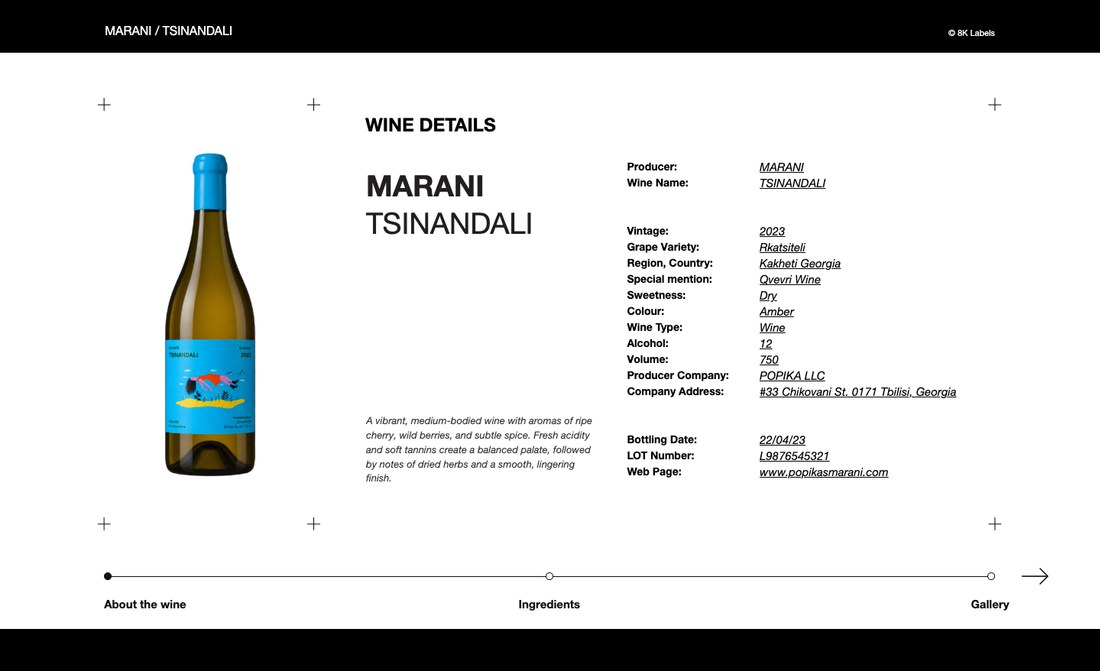
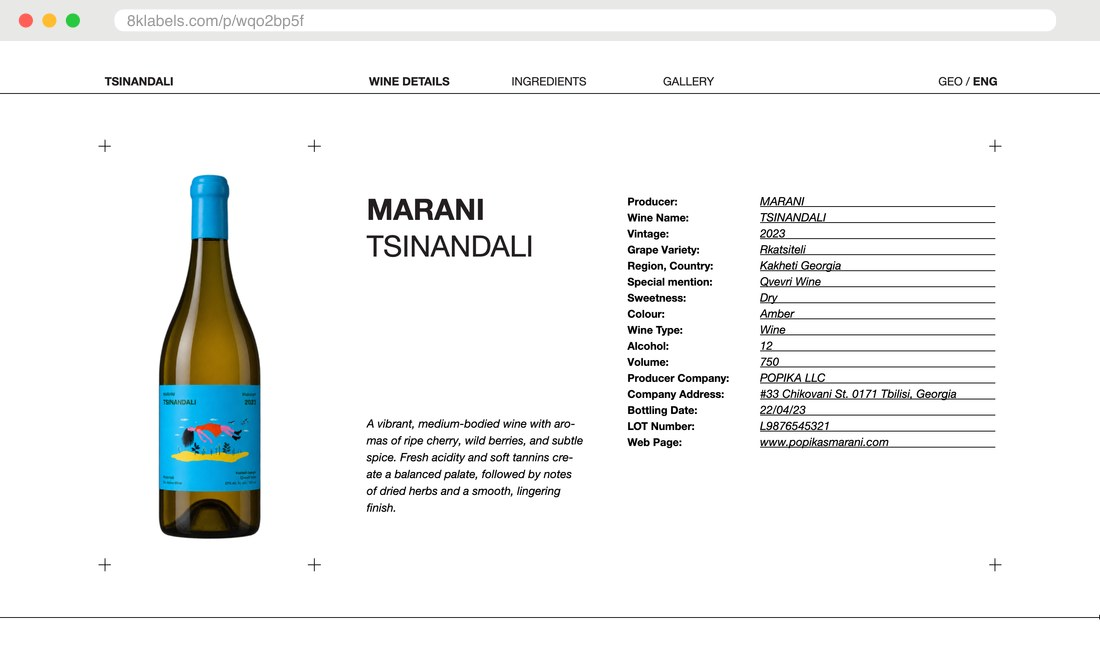
Black 8K.WINE, home tutorial link set like the tagline, home red button on the margin, tutorial shows the new product page and stops on START (→ front label details), spot drawings lose stray marks near the edges

diff --git a/src/app/page.tsx b/src/app/page.tsx
@@ -155,7 +155,9 @@ const VEIL_TOP = HEADER_H + 1.5, VEIL_BOT = FOOT_RULE_Y - 1.5;
 const CARD_BASE = 823.61, CARD_BODY = [18.4, 32.8], CARD_FS = 15, CARD_BODY_FS = 12;
 const NEXT_R = 18.09;          /* red round button — round 109: smaller again (was 27) */
 const NEXT_X = 1302.86;        /* its centre on working pages … */
-const WELCOME_X = 168.1;       /* … and on the welcome page */
+/* … and on the welcome page — 2026-09-28 (owner): its left edge ON the
+   page's left margin (137.14), like the artists' pages' back button */
+const WELCOME_X = 137.14 + 18.09;
 const BACK_X = 155.23;         /* round 112 #4: artists' pages — a BACK button at the rule's left end */
 const STEPS: { x: number; label: string; page: PageKey; big: boolean }[] = [
   { x: 303.38, label: "Front Label Details", page: "vision", big: false },
@@ -1531,8 +1533,9 @@ const sleep = (ms: number) => new Promise((r) => setTimeout(r, ms));
   }, [tut, tutIdle]);
 
   const endTutorial = useCallback(() => {
-    if (tutAuto.current) { tutAuto.current = false; stopTutorial(); go("welcome", -1); restoreRef.current(false); return; }
     stopTutorial();
+    /* the visitor's own order comes back (the story borrowed the page) */
+    restoreRef.current(false);
     /* round 72 #2: straight into the real Your Vision page, not the home
        page — they have just watched the whole story, so they start work */
     go("vision");
@@ -1795,8 +1798,11 @@ const sleep = (ms: number) => new Promise((r) => setTimeout(r, ms));
          (its onClick turns the page of the story). */
       if (!live()) return;
       /* the self-playing story presses the red button itself */
+      /* …until the closing card: there the red button is START and waits
+         for the visitor, who then begins on the front label details */
+      if (tutAuto.current && tut >= TUT_CARDS.length - 1) tutAuto.current = false;
       if (tutAuto.current) {
-        if (!(await hold(tut >= TUT_CARDS.length - 1 ? 2600 : 900))) return;
+        if (!(await hold(900))) return;
         const bx = tut < STEPS.length ? STEPS[tut].x : NEXT_X;
         if (!(await tap([bx, PROG_Y], 260, 640))) return;
         (document.querySelector("[data-tut-ok][aria-label='next'], [data-tut-ok][aria-label='start']") as HTMLButtonElement | null)?.click();
@@ -2538,9 +2544,10 @@ const sleep = (ms: number) => new Promise((r) => setTimeout(r, ms));
           </span>
         ) : null}
         {/* 2026-09-28 (owner): on the left, level with the tagline's first
-            line — a red underlined link that plays the tutorial by itself */}
+            line — set like the tagline (italic, black), underlined as a link;
+            it plays the tutorial by itself */}
         <button onClick={() => startTutorial(true)}
-          style={{ ...px(137.14, baseTop(625.4, 16.2), 420, 20), ...ghost, pointerEvents: "auto", textAlign: "left", textTransform: "none", font: `16.2px/16.2px ${HNW}`, color: BAR_RED, textDecoration: "underline", textUnderlineOffset: 3, whiteSpace: "nowrap", cursor: "pointer" }}>
+          style={{ ...px(137.14, baseTop(625.4, 16.2), 420, 20), ...ghost, pointerEvents: "auto", textAlign: "left", textTransform: "none", font: `italic 16.2px/16.2px ${HNW}`, color: "#000", textDecoration: "underline", textUnderlineOffset: 3, whiteSpace: "nowrap", cursor: "pointer" }}>
           {t("See how this pack was created")}</button>
         {lang === "ge" ? null : ["Create print and market-ready labels,", "marketing assets, and a product page", "in ~10 minutes."].map((ln, i) => (
           <span key={"hs" + i} style={{ ...px(1038.5, baseTop(625.4 + i * 19.44, 16.2), 320, 20), font: `italic 16.2px ${HNW}`, lineHeight: "16.2px", color: "#000", whiteSpace: "nowrap" }}>{t(ln)}</span>
@@ -4216,7 +4223,7 @@ const sleep = (ms: number) => new Promise((r) => setTimeout(r, ms));
                  came out short and left the right side tighter than the left) */
               return (
                 <button onClick={() => { if (tutRef.current >= 0) stopTutorial(); go("welcome", -1); }}
-                  style={{ position: "absolute", left: 137.14, top: TOPS - PAD, height: HEADER_H - (TOPS - PAD), ...ghost, padding: `0 ${PAD}px`, background: BAR_RED, display: "flex", alignItems: "flex-start", textTransform: "none" }}>
+                  style={{ position: "absolute", left: 137.14, top: TOPS - PAD, height: HEADER_H - (TOPS - PAD), ...ghost, padding: `0 ${PAD}px`, background: "#111", display: "flex", alignItems: "flex-start", textTransform: "none" }}>
                   <span style={{ display: "block", position: "relative", top: baseTop(BASE, 13) - (TOPS - PAD), font: `700 13px ${HNW}`, lineHeight: "13px", color: "#fff", whiteSpace: "nowrap" }}>8K.WINE ©</span>
                 </button>
               );

diff --git a/src/lib/typeset/palette.ts b/src/lib/typeset/palette.ts
@@ -271,6 +271,73 @@ export async function cleanPaper(dataUrl: string, to?: string, sideIn?: Side | S
     if (y < H - 1) push(x, y + 1);
   }
 
+  /* STRAY MARKS (owner, 2026-09-28: "small ink images often have
+     artefacts close to the edges — make sure the edges are clean"). The
+     paper is grown in from the sheet's edge, so a speck, a hairline or a
+     smudge that stands alone on the paper is ringed by paper and survives
+     it. On a spot drawing (no `sides`) the ink is split into islands and
+     the drawing is where its sizeable islands are (each ≥ 2 % of all the
+     ink). What counts as paper is written at `stray` below; dots, stars,
+     birds and loose strokes that belong to the drawing stay. */
+  if (!sides && process.env.CLEAN_NO_STRAY !== "1") {   /* (the env switch is for side-by-side tests only) */
+    const lab = new Int32Array(W * H).fill(-1);
+    const comps: { n: number; x0: number; y0: number; x1: number; y1: number }[] = [];
+    let total = 0;
+    const stack = new Int32Array(W * H);
+    for (let p0 = 0; p0 < W * H; p0++) {
+      if (paper[p0] || lab[p0] >= 0) continue;
+      const id = comps.length, c = { n: 0, x0: W, y0: H, x1: -1, y1: -1 };
+      let sp = 0; stack[sp++] = p0; lab[p0] = id;
+      while (sp) {
+        const q = stack[--sp], x = q % W, y = (q / W) | 0;
+        c.n++; if (x < c.x0) c.x0 = x; if (x > c.x1) c.x1 = x; if (y < c.y0) c.y0 = y; if (y > c.y1) c.y1 = y;
+        for (let dy = -1; dy <= 1; dy++) for (let dx = -1; dx <= 1; dx++) {
+          const nx = x + dx, ny = y + dy;
+          if (nx < 0 || ny < 0 || nx >= W || ny >= H) continue;
+          const r2 = ny * W + nx;
+          if (!paper[r2] && lab[r2] < 0) { lab[r2] = id; stack[sp++] = r2; }
+        }
+      }
+      comps.push(c); total += c.n;
+    }
+    const bigId = new Uint8Array(comps.length);
+    comps.forEach((c, i) => { if (c.n >= total * 0.02) bigId[i] = 1; });
+    if (bigId.some((v) => v)) {
+      const g = Math.round(Math.min(W, H) * 0.04), edge = Math.round(Math.min(W, H) * 0.02);
+      /* the drawing's outer rectangle (its sizeable islands), grown by g */
+      let ax0 = W, ay0 = H, ax1 = -1, ay1 = -1;
+      comps.forEach((c, i) => { if (bigId[i]) { ax0 = Math.min(ax0, c.x0); ay0 = Math.min(ay0, c.y0); ax1 = Math.max(ax1, c.x1); ay1 = Math.max(ay1, c.y1); } });
+      ax0 -= g; ay0 -= g; ax1 += g; ay1 += g;
+      /* gentle on purpose (owner's pictures, 2026-09-28): a loose cloud
+         stroke of Giorgi's or a pale wisp of Mariam's sky is drawing, not
+         dirt — so only (a) a small island (< 0.6 % of the ink) outside the
+         rectangle, (b) one under 3 % hugging the sheet's border. (A rule
+         for tiny islands far from any ink took bits of his clouds — out.) */
+      const stray = comps.map((c) => {
+        const outside = c.x1 < ax0 || c.x0 > ax1 || c.y1 < ay0 || c.y0 > ay1;
+        const hugs = c.x0 < edge || c.y0 < edge || c.x1 >= W - edge || c.y1 >= H - edge;
+        return (outside && c.n < total * 0.006) || (hugs && c.n < total * 0.03);
+      });
+      for (let p0 = 0; p0 < W * H; p0++) if (!paper[p0] && stray[lab[p0]]) paper[p0] = 2;
+      /* the paper outside the rectangle is plain paper, faint smudges and all */
+      for (let p0 = 0; p0 < W * H; p0++) {
+        if (paper[p0] !== 1) continue;
+        const x = p0 % W, y = (p0 / W) | 0;
+        if (x < ax0 || x > ax1 || y < ay0 || y > ay1) paper[p0] = 2;
+      }
+      /* and its soft rim, six pixels round, so no pale ghost stays */
+      for (let it = 0; it < 6; it++) {
+        const grow: number[] = [];
+        for (let p0 = 0; p0 < W * H; p0++) {
+          if (paper[p0] !== 1) continue;
+          const x = p0 % W, y = (p0 / W) | 0;
+          if ((x > 0 && paper[p0 - 1] === 2) || (x < W - 1 && paper[p0 + 1] === 2) || (y > 0 && paper[p0 - W] === 2) || (y < H - 1 && paper[p0 + W] === 2)) grow.push(p0);
+        }
+        for (const p0 of grow) paper[p0] = 2;
+      }
+    }
+  }
+
   const tr = to ? parseInt(to.slice(1, 3), 16) : gr;
   const tg = to ? parseInt(to.slice(3, 5), 16) : gg;
   const tb = to ? parseInt(to.slice(5, 7), 16) : gb;
@@ -282,7 +349,7 @@ export async function cleanPaper(dataUrl: string, to?: string, sideIn?: Side | S
       rows[(p2 / W) | 0]++; cols[p2 % W]++;
       continue;
     }
-    const d = dist(i);
+    const d = paper[p2] === 2 ? 0 : dist(i);     /* a stray mark becomes plain paper */
     let a = d <= t0 ? 0 : (d - t0) / (t1 - t0);
     a = a * a * (3 - 2 * a);                       /* smoothstep, no banding */
     out[i] = Math.round(tr + (data[i] - gr) * a);

diff --git a/CONTINUE-HERE.md b/CONTINUE-HERE.md
@@ -293,6 +293,8 @@ download), 8K.WINE header, new home label. Live smoke label OK (Giorgi,
 t05, orphan region centred). Layout edits made on the LIVE admin live in
 the server's data/layout-edits — pull them before reading.
 
+**2026-09-28 (later) — owner's five:** 8K.WINE block black again; the home link black italic 16.2 like the tagline, underlined; the home red button's left edge ON the page margin (WELCOME_X = 137.14 + NEXT_R); the tutorial's product page picture (public/newui/demo/ts-landing.jpg) re-shot from the new product page with the browser bar; the self-playing tutorial STOPS on its closing card (red = START) and START opens the front label details (endTutorial restores the visitor's own order). SPOT DRAWINGS' STRAY MARKS: cleanPaper (no `sides`) now splits the ink into islands and turns into paper (a) small islands (< 0.6 % of the ink) outside the drawing's rectangle (+4 %), (b) islands < 3 % hugging the sheet's border, plus their 6-px rim and every faint smudge outside the rectangle. A stricter "tiny far island" rule took real cloud strokes (Giorgi, Mariam) and was dropped. Tested on 12 live spot labels (data/experiments/stray-test.mts): dirt gone, drawings untouched.
+
 **2026-09-28 — SELECT, GUIDED MODE, SELF-PLAYING TUTORIAL (owner's eight):**
 - No Save anywhere. Front label: "○ Select" under each column where Save stood before it was raised (y637–671, `selectCtl`); the red button flies the chosen label into the folder (`flyThen` + `leaveFlight`), then the next page. Back label: nothing to choose — the red button files it and flies it. Marketing: as before (auto). No NEW VERSIONS button and no e-mail step (owner will decide later) — sets/arrows/pay page stay dormant; a refused run just says "You've used your free labels for now."
 - Header: 8K.WINE block in our red; "GUIDED MODE" + switch left of ENG/GEO (off: grey outline+dot; on: black outline, red dot) — replaces the footer dev switch; on by default for a first visit, then remembered (nui-guide); on mid-flow starts the notes at the current page.
